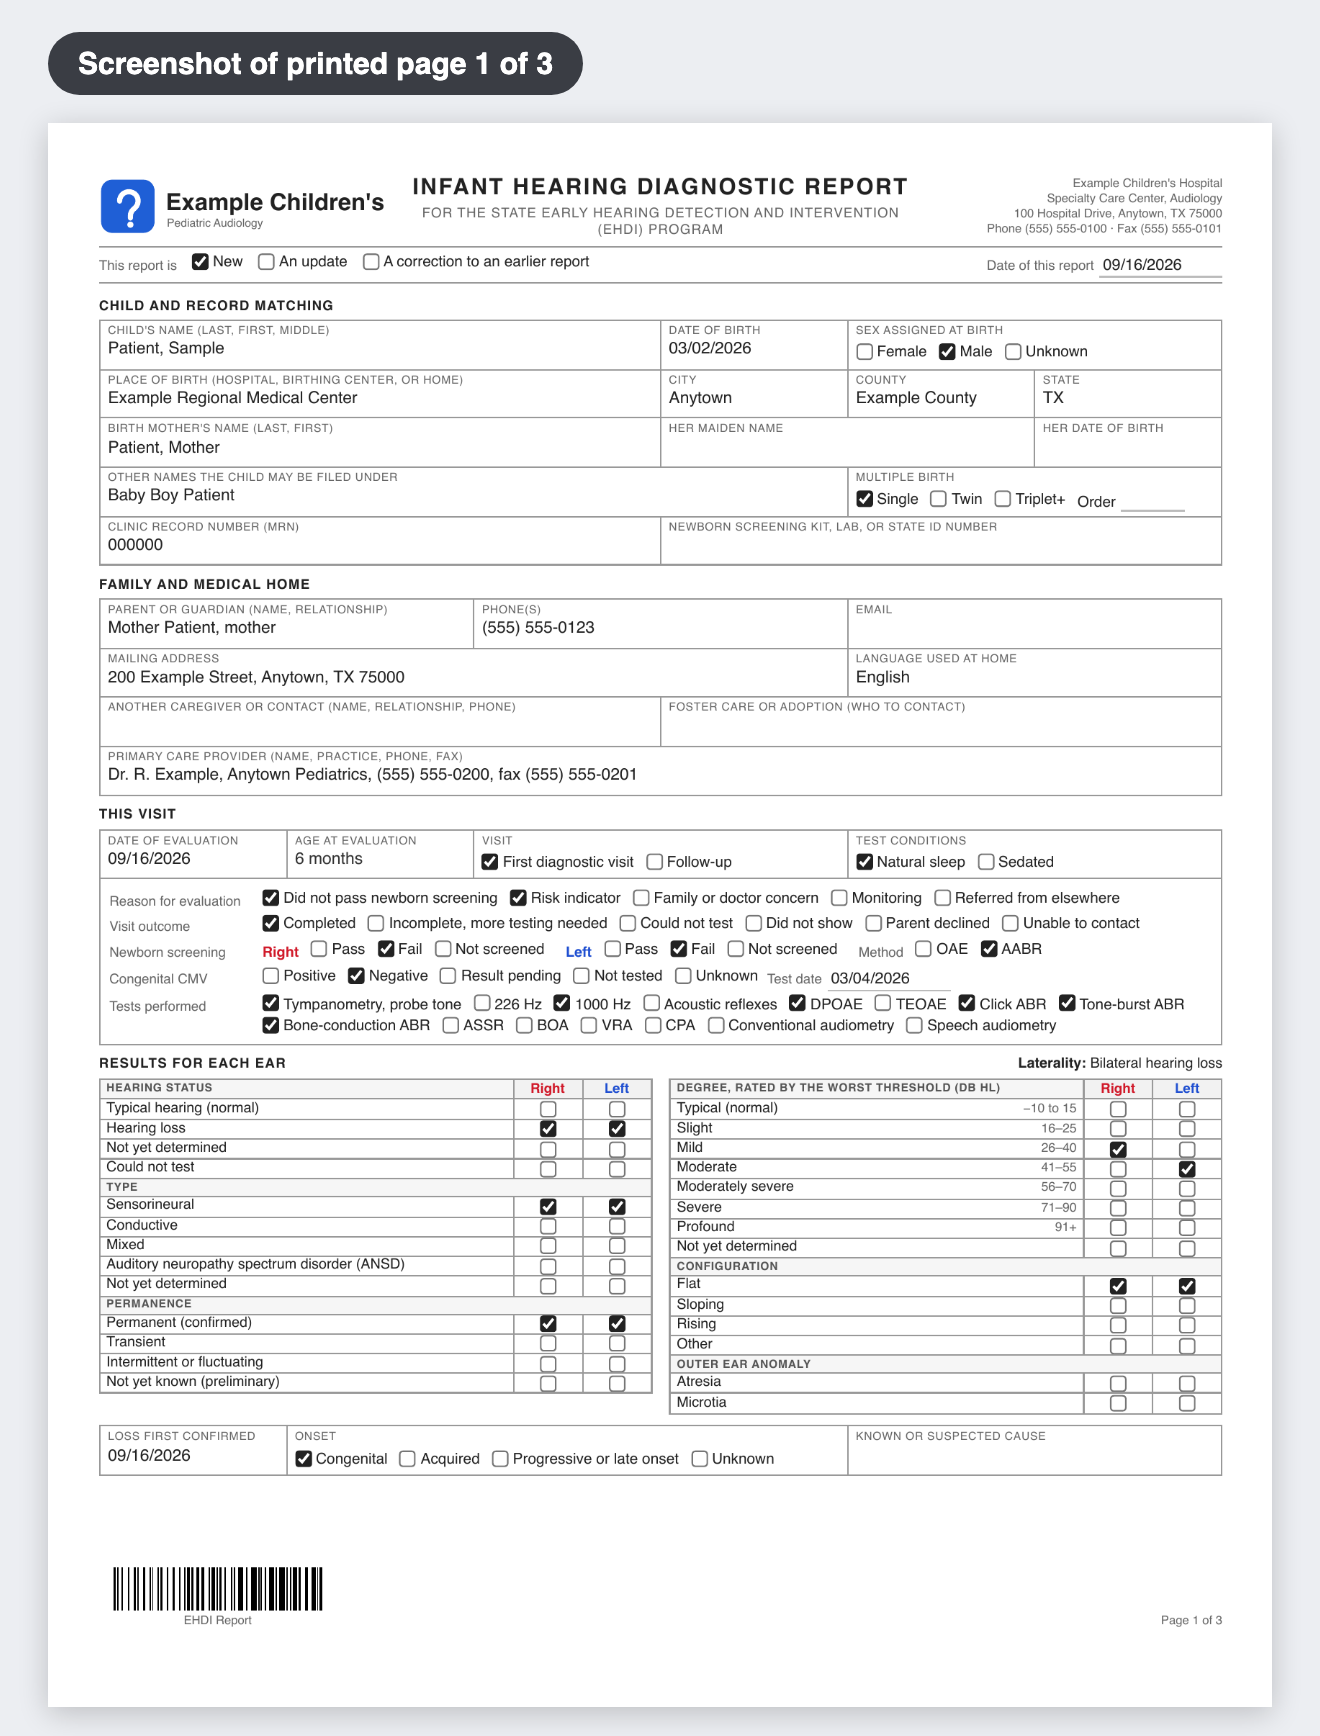
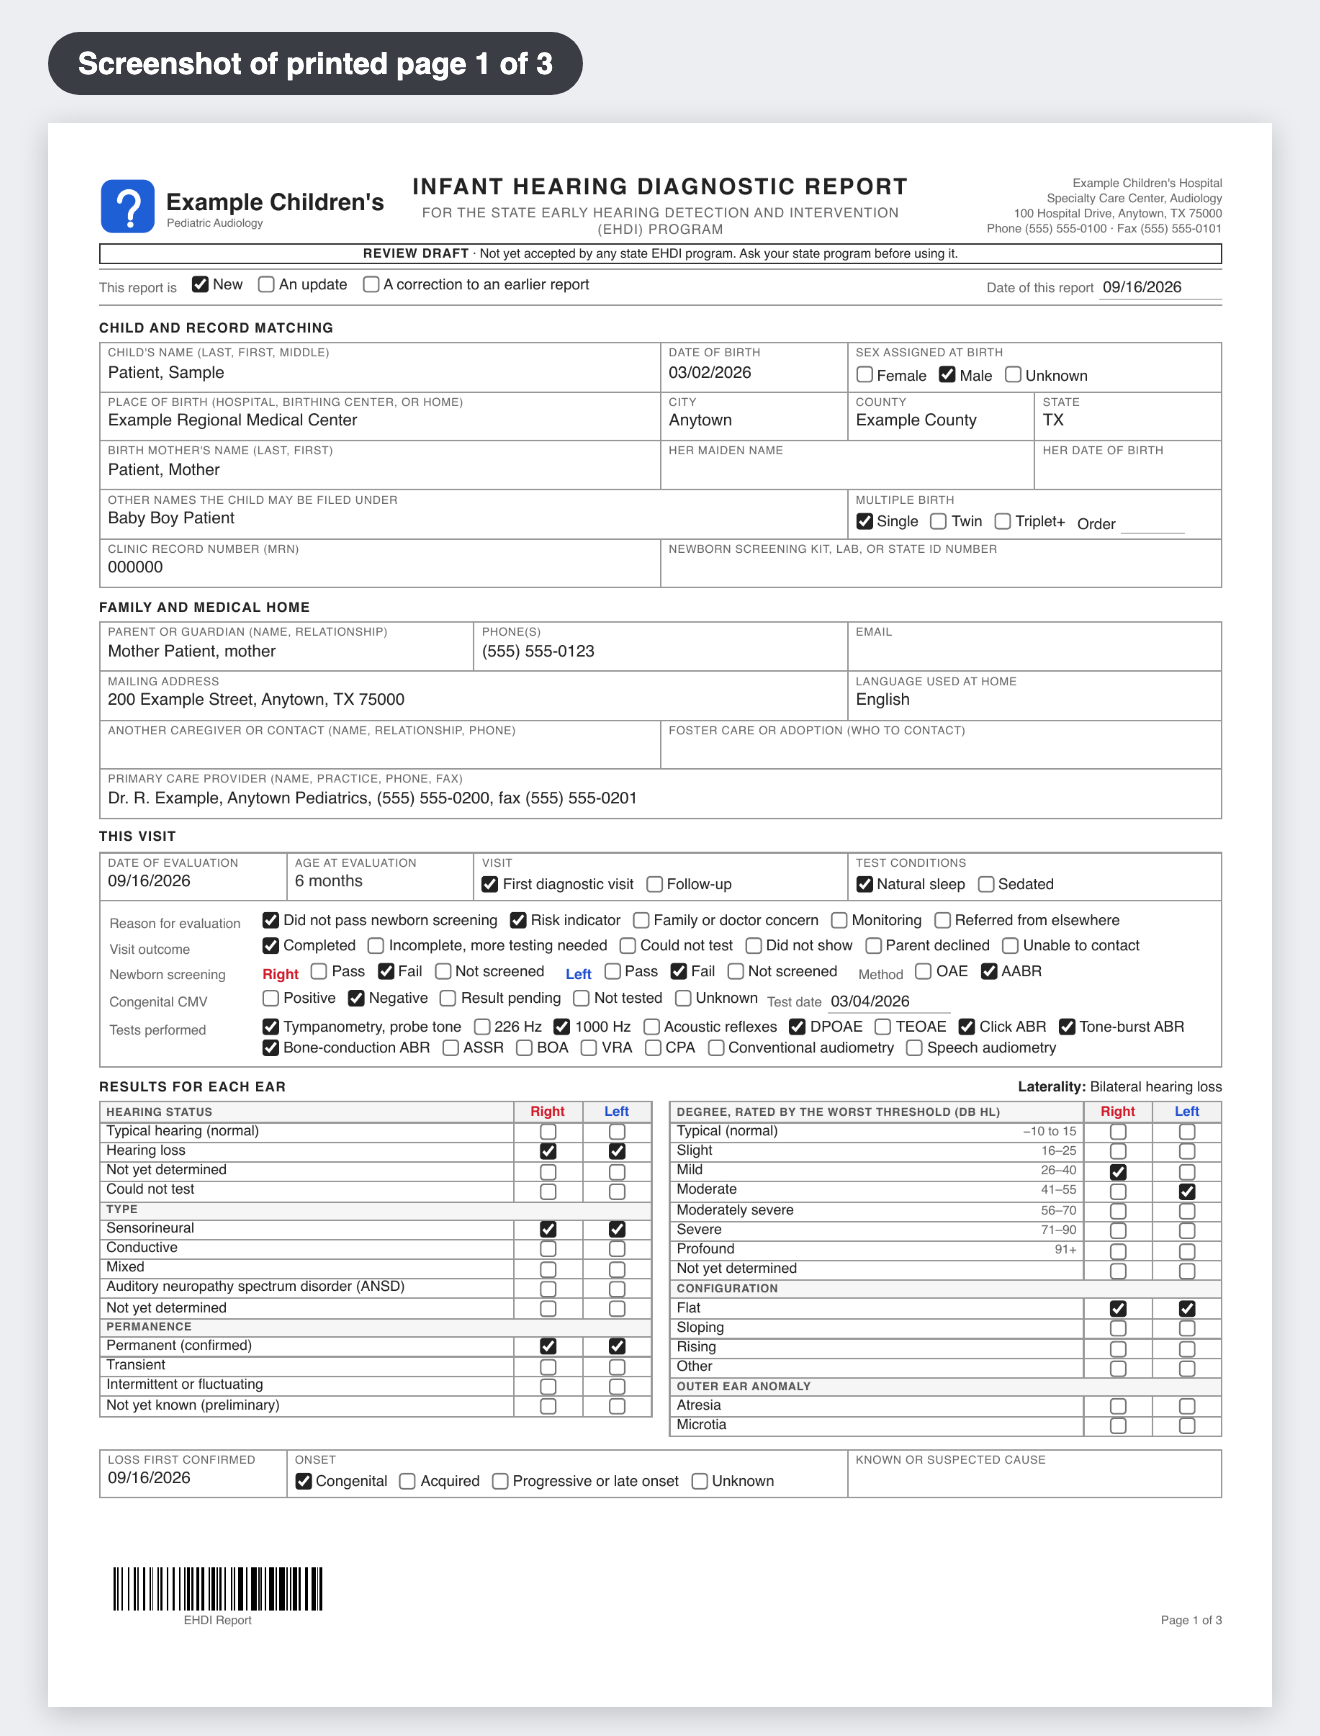
EHDI report: mark it a review draft on every page, on screen, and in the README
No state EHDI program has accepted the report yet. Every printed page now
carries a boxed status line asking the audiologist to check with their state
program first, and a screen-only banner above page 1 links to the review issue
(#1). The README table and section say the same, with a warning box. Page 1
still fits at a full letterhead with 0.34 in to spare.

Changed region(s): [[0.0621, 0.1244, 0.9318, 0.871]]

diff --git a/ehdi-report.html b/ehdi-report.html
@@ -127,6 +127,14 @@ table.results td input:focus{background:#f5f7ff}
 .bc span{font-size:8px;white-space:nowrap}
 .pfoot{display:flex;justify-content:space-between;align-items:flex-end;margin-top:auto;padding-top:0.08in;font-size:8px;color:var(--muted)}
 .pfoot .pageno{margin-left:auto}
+/* review-draft status: printed on every page, plus a banner on screen. Remove both once states accept the report. */
+.draftline{border:1px solid #333;padding:1px 6px;font-size:8.5px;line-height:1.2;text-align:center;margin:0 0 3px;color:var(--ink)}
+.head+.draftline{margin-top:-2px}
+.p2head+.draftline{margin-top:-2px;margin-bottom:7px}
+.draftline b{letter-spacing:.06em}
+.sheet.unused .draftline{display:none}
+.draft-banner{width:8.5in;margin:18px auto -6px;background:#fff6db;border:1px solid #e0c46c;border-radius:8px;padding:9px 14px;font-size:13px;color:#4a3b00;line-height:1.45}
+.draft-banner a{color:#1f4fd1}
 
 /* ---------- dialogs (screen only) ---------- */
 dialog.lh{position:fixed;top:56px;right:14px;left:auto;margin:0;width:370px;max-height:calc(100vh - 70px);overflow:auto;border:1px solid #cfd2d8;border-radius:10px;box-shadow:0 8px 30px rgba(0,0,0,.2);padding:14px 16px;font:13px/1.4 -apple-system,"Segoe UI",Helvetica,Arial,sans-serif;color:#222;z-index:10;background:#fff}
@@ -189,6 +197,8 @@ dialog.lh.wide{width:430px}
   <div class="status" id="status"></div>
 </div>
 
+<div class="draft-banner screen-only" id="draftBanner"><b>Review draft.</b> No state EHDI program has accepted this report yet. Ask your state program before using it. It's shared now so programs and audiologists can review it; every printed page says so. <a href="https://github.com/citizenkade/audiology-forms/issues/1" target="_blank" rel="noopener">Comments and state acceptance</a></div>
+
 <!-- ================= PAGE 1: who, and what was found ================= -->
 <div class="sheet" id="sheet1">
   <div class="head">
@@ -196,6 +206,7 @@ dialog.lh.wide{width:430px}
     <div><h1>Infant Hearing Diagnostic Report</h1><div class="subtitle">For the state Early Hearing Detection and Intervention (EHDI) program</div></div>
     <div class="contact" id="shContact" hidden></div>
   </div>
+  <div class="draftline"></div>
 
   <div class="meta">
     <span class="checks"><span class="cl" style="color:var(--muted);font-size:9px">This report is</span>
@@ -338,6 +349,7 @@ dialog.lh.wide{width:430px}
 <!-- ================= PAGE 2: what happens next ================= -->
 <div class="sheet" id="sheet2">
   <div class="p2head"><span>Infant Hearing Diagnostic Report</span><span class="who"></span><span class="pageno">Page 2 of 2</span></div>
+  <div class="draftline"></div>
 
   <div class="sec" style="margin-top:0">Next steps</div>
   <div class="fu-bar"><span>EHDI follow-up:</span><span class="checks">
@@ -427,6 +439,7 @@ dialog.lh.wide{width:430px}
 <!-- ================= PAGE 3: optional sections, printed only when one is added ================= -->
 <div class="sheet" id="sheet3">
   <div class="p2head" id="p3head"><span>Infant Hearing Diagnostic Report</span><span class="who"></span><span class="pageno">Page 3 of 3</span></div>
+  <div class="draftline"></div>
   <input type="checkbox" data-check="optRisk" hidden><input type="checkbox" data-check="optResults" hidden><input type="checkbox" data-check="optConsent" hidden>
 
   <section class="optsec" data-opt="optRisk" hidden>
@@ -1122,6 +1135,10 @@ $('#lhClear').addEventListener('click',()=>{
   lh={...LH_EMPTY}; lhCommit('Letterhead cleared'); lhFillDialog();
 });
 $('#lhMaster').addEventListener('click',saveMaster);
+
+/* ---------------- review-draft status line, one wording for every page ---------------- */
+const DRAFT_NOTICE='<b>REVIEW DRAFT</b> · Not yet accepted by any state EHDI program. Ask your state program before using it.';
+$$('.draftline').forEach(el=>{ el.innerHTML=DRAFT_NOTICE; });
 
 /* ---------------- boot ---------------- */
 buildMatrix($('#mxA'),MX_A); buildMatrix($('#mxB'),MX_B); buildRisks(); buildResults(); buildStateSelect();

diff --git a/README.md b/README.md
@@ -8,7 +8,7 @@ They were made for educational audiologists who needed editable forms and couldn
 | --- | --- | --- |
 | **Audiogram** | Pure-tone audiogram with click-to-plot chart, speech audiometry, tympanometry, OAEs, and otoscopy. One page. | **[audiogram.html](https://github.com/citizenkade/audiology-forms/releases/latest/download/audiogram.html)** |
 | **ABR report** | Auditory brainstem response evaluation with measured and estimated thresholds, an audiogram drawn from the estimates, and page two for OAEs, immittance, interpretation, and recommendations. Two pages. | **[abr-report.html](https://github.com/citizenkade/audiology-forms/releases/latest/download/abr-report.html)** |
-| **EHDI report** | Infant hearing diagnostic report for your state's Early Hearing Detection and Intervention (EHDI) program. One standard report for any state, with where to send it and by when for all 50 states and DC. Two pages, plus an optional third. | **[ehdi-report.html](https://github.com/citizenkade/audiology-forms/releases/latest/download/ehdi-report.html)** |
+| **EHDI report** *(review draft)* | **Not yet accepted by any state EHDI program; ask yours before using it.** Infant hearing diagnostic report for your state's Early Hearing Detection and Intervention (EHDI) program. One standard report for any state, with where to send it and by when for all 50 states and DC. Two pages, plus an optional third. | **[ehdi-report.html](https://github.com/citizenkade/audiology-forms/releases/latest/download/ehdi-report.html)** |
 
 This page is a description of the forms, with download links and some pictures. The forms themselves are the files you download.
 
@@ -72,6 +72,11 @@ It works the same way as the audiogram: one file, opens in any browser, prints t
 - **Correction factors are saved with your letterhead.** Save a master copy (below) and a colleague who opens it gets the same corrections.
 
 ## EHDI report
+
+> [!WARNING]
+> **Review draft. No state EHDI program has accepted this report yet.** Ask your state program before sending results on it. Until your program says yes, keep reporting on your state's own form or online system.
+>
+> It's shared now so EHDI programs and audiologists can review it. Every printed page says it's a review draft. Comments, and the list of states that accept it, are in [issue #1](https://github.com/citizenkade/audiology-forms/issues/1).
 
 These are pictures too; clicking one downloads the real form.
 
